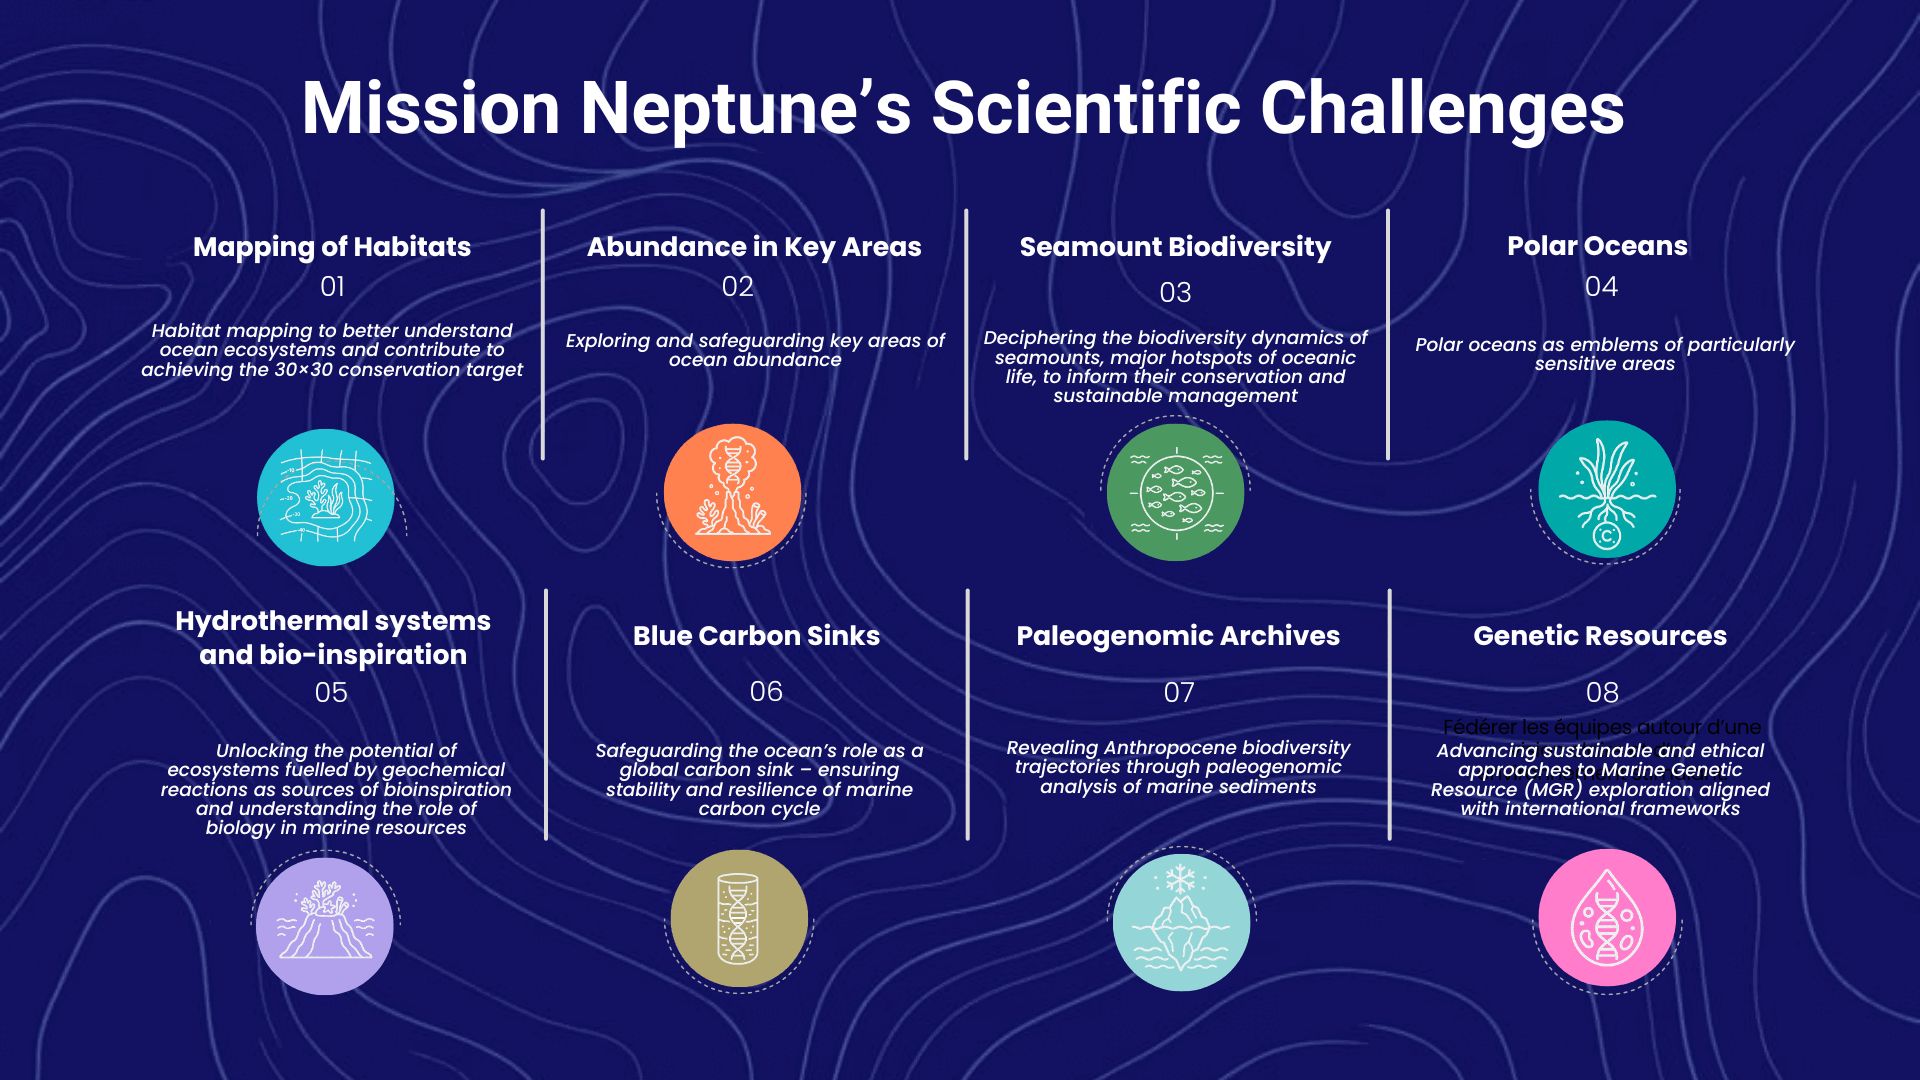
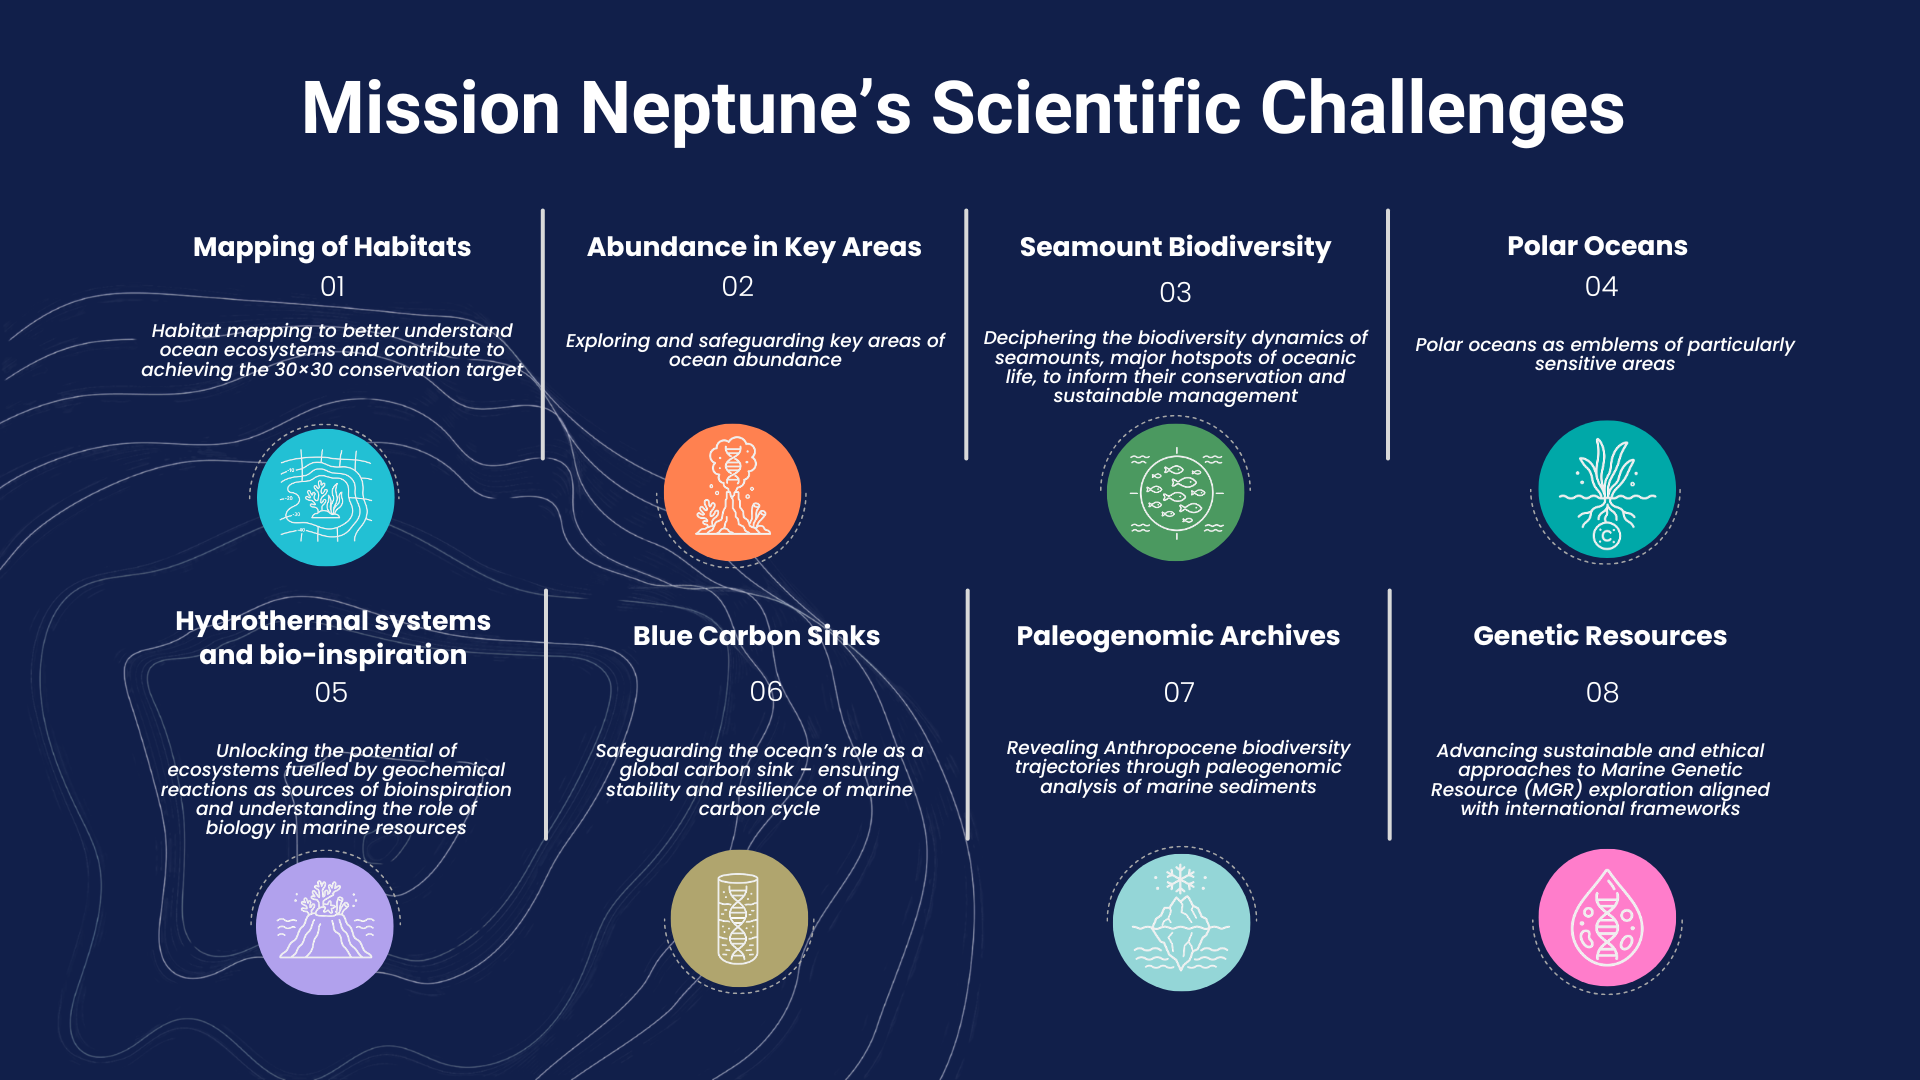
feat(graphics): scientific challenges infographic v3 (navy background)

diff --git a/CHANGELOG.md b/CHANGELOG.md
@@ -2,6 +2,12 @@
 
 Tous les changements notables de ce repo sont documentés ici. Format inspiré de [Keep a Changelog](https://keepachangelog.com/), versioning [SemVer](https://semver.org/).
 
+## [v1.3.4] — 2026-07-21
+
+### Modifications
+
+- `graphics/mission-neptune-scientific-challenges.png` — nouvelle version (v3) de l'infographie des défis scientifiques, fond bleu nuit avec lignes topographiques (au lieu du fond clair précédent), 1920×1080 (~566 Ko). Même chemin, l'artwork est remplacé — le site le déplace dans la section « Pourquoi Mission Neptune » de /the-mission. Source : `MN_scientific_Challenges_3.png` (~/Downloads).
+
 ## [v1.3.3] — 2026-07-16
 
 ### Ajouts